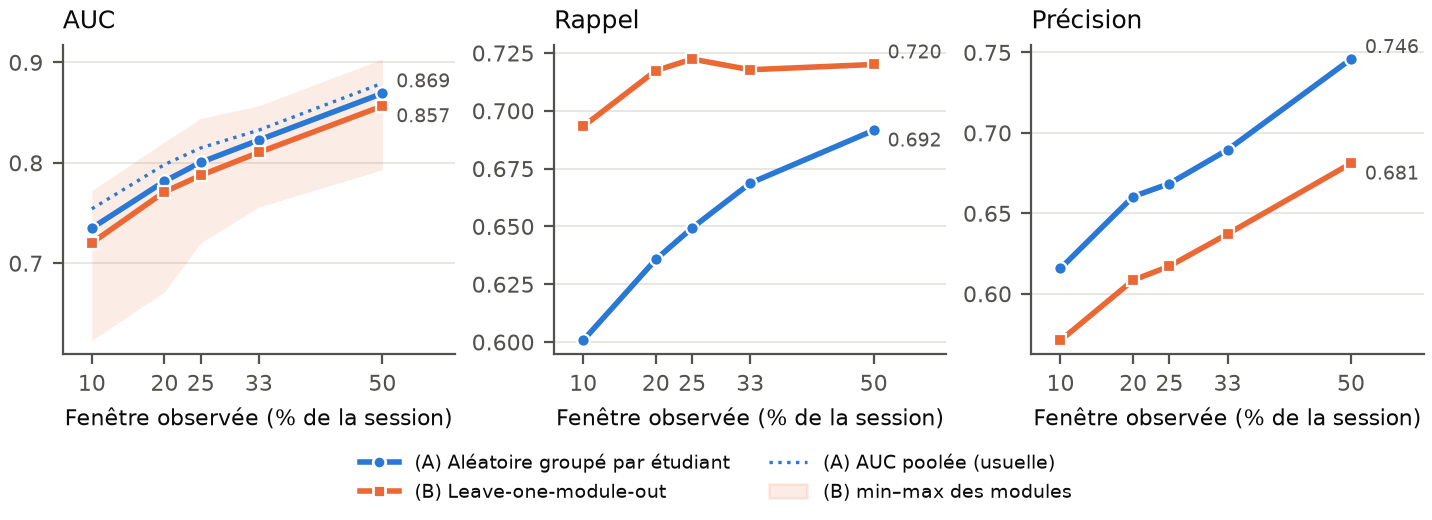
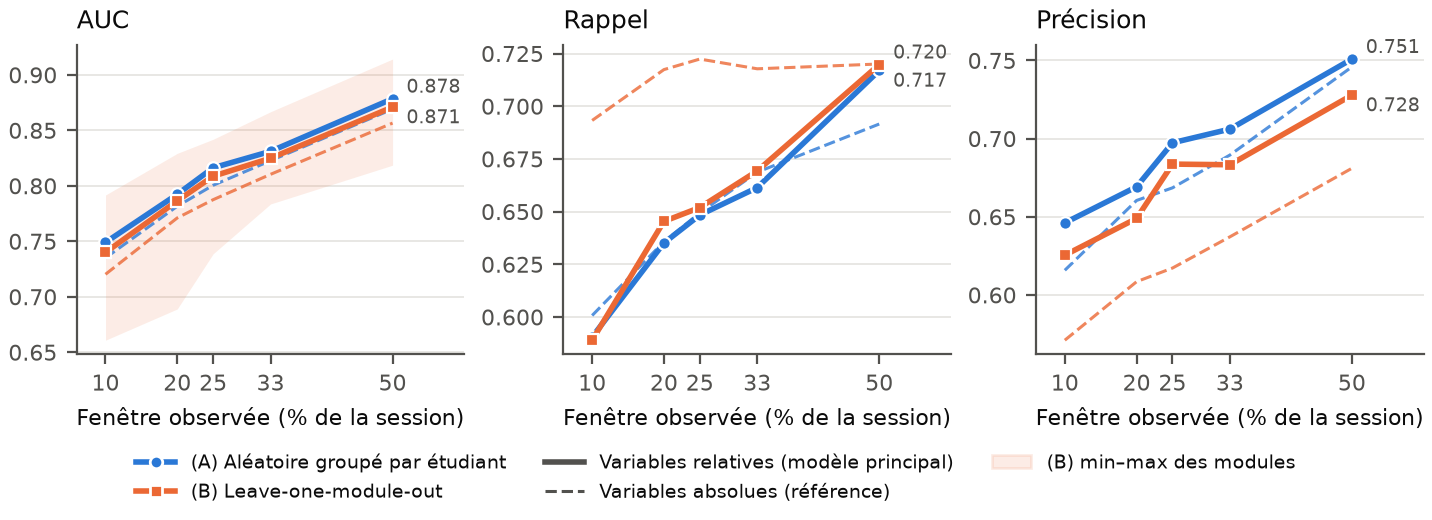
D7 : variables relatives = modèle principal ; figure T2 révisée

diff --git a/src/fig_early_curve.py b/src/fig_early_curve.py
@@ -3,13 +3,13 @@
 """
 Figure T2 — Performance en fonction de la fenêtre d'observation (population active).
 
+Trait plein : modèle principal, variables relatives (rang dans la présentation).
+Tirets      : référence, variables absolues (usage courant dans la littérature).
 Les deux protocoles sont agrégés de la MÊME façon : moyenne des métriques
-calculées à l'intérieur de chaque module (en (A), sur les prédictions
-hors-pli). L'AUC « poolée » de (A), habituellement rapportée, est tracée en
-pointillés : elle mélange les modules et gonfle l'écart (A − B).
-Bande : étendue min–max des modules en LOMO.
+calculées à l'intérieur de chaque module (en (A), sur les prédictions hors-pli).
+Bande : étendue min–max des modules en LOMO (variables relatives).
 
-Lit results/early_curve*.csv ; écrit figures/early_curve.pdf et .png.
+Lit results/early_curve_by_module[_relatives].csv ; écrit figures/early_curve.pdf et .png.
 Usage : python src/fig_early_curve.py
 """
 from pathlib import Path
@@ -27,6 +27,7 @@ MARQUEUR = {"aleatoire": "o", "lomo": "s"}
 LIBELLE = {"aleatoire": "(A) Aléatoire groupé par étudiant",
            "lomo": "(B) Leave-one-module-out"}
 TEXTE, TEXTE2, GRILLE = "#0b0b0b", "#52514e", "#e4e3df"
+METRIQUES = ["AUC", "Rappel", "Précision"]
 
 plt.rcParams.update({
     "font.size": 8, "axes.titlesize": 9, "axes.labelsize": 8,
@@ -36,35 +37,39 @@ plt.rcParams.update({
 })
 
 
+def moyennes(suffixe):
+    mod = pd.read_csv(RES / f"early_curve_by_module{suffixe}.csv")
+    mod = mod[mod.population == POP]
+    return mod, mod.groupby(["protocole", "cutoff"])[METRIQUES].mean()
+
+
 def etiquettes_fin(ax, valeurs):
     """Valeur en bout de courbe ; écarte verticalement les étiquettes proches."""
     ordre = sorted(valeurs, key=lambda v: v[1])
-    for (x, y, proto), dy in zip(ordre, [-4, 4]):
+    for (x, y), dy in zip(ordre, [-4, 4]):
         ax.annotate(f"{y:.3f}", (x, y), xytext=(5, dy), textcoords="offset points",
                     va="center", fontsize=7, color=TEXTE2)
 
 
 def main():
-    agr = pd.read_csv(RES / "early_curve.csv")
-    mod = pd.read_csv(RES / "early_curve_by_module.csv")
-    mod = mod[mod.population == POP]
-    moy = mod.groupby(["protocole", "cutoff"])[["AUC", "Rappel", "Précision"]].mean()
-    bande = mod[mod.protocole == "lomo"].groupby("cutoff")["AUC"].agg(["min", "max"])
-    poolee = agr[(agr.population == POP) & (agr.protocole == "aleatoire")].set_index("cutoff")["AUC"]
-    cutoffs = sorted(mod.cutoff.unique())
+    mod_rel, rel = moyennes("_relatives")
+    _, abso = moyennes("")
+    bande = mod_rel[mod_rel.protocole == "lomo"].groupby("cutoff")["AUC"].agg(["min", "max"])
+    cutoffs = sorted(mod_rel.cutoff.unique())
 
     fig, axes = plt.subplots(1, 3, figsize=(7.16, 2.6), constrained_layout=True)
-    for ax, met in zip(axes, ["AUC", "Rappel", "Précision"]):
+    for ax, met in zip(axes, METRIQUES):
         if met == "AUC":
             ax.fill_between(bande.index * 100, bande["min"], bande["max"],
                             color=COULEUR["lomo"], alpha=0.12, linewidth=0)
-            ax.plot(poolee.index * 100, poolee.values, ":", lw=1.2, color=COULEUR["aleatoire"])
         fins = []
         for proto in ["aleatoire", "lomo"]:
-            d = moy.loc[proto, met]
+            d = abso.loc[proto, met]
+            ax.plot(d.index * 100, d.values, "--", lw=1.1, color=COULEUR[proto], alpha=0.8)
+            d = rel.loc[proto, met]
             ax.plot(d.index * 100, d.values, "-", lw=2, color=COULEUR[proto],
                     marker=MARQUEUR[proto], ms=4.5, mec="white", mew=0.8)
-            fins.append((d.index[-1] * 100, d.values[-1], proto))
+            fins.append((d.index[-1] * 100, d.values[-1]))
         etiquettes_fin(ax, fins)
         ax.set_title(met, loc="left", color=TEXTE)
         ax.set_xlabel("Fenêtre observée (% de la session)")
@@ -75,11 +80,11 @@ def main():
 
     poignees = [Line2D([], [], color=COULEUR[p], marker=MARQUEUR[p], lw=2, ms=4.5,
                        mec="white", label=LIBELLE[p]) for p in ["aleatoire", "lomo"]]
-    poignees += [Line2D([], [], color=COULEUR["aleatoire"], lw=1.2, ls=":",
-                        label="(A) AUC poolée (usuelle)"),
+    poignees += [Line2D([], [], color=TEXTE2, lw=2, label="Variables relatives (modèle principal)"),
+                 Line2D([], [], color=TEXTE2, lw=1.1, ls="--", label="Variables absolues (référence)"),
                  plt.Rectangle((0, 0), 1, 1, color=COULEUR["lomo"], alpha=0.12,
                                label="(B) min–max des modules")]
-    fig.legend(handles=poignees, loc="outside lower center", ncol=2, frameon=False, fontsize=7)
+    fig.legend(handles=poignees, loc="outside lower center", ncol=3, frameon=False, fontsize=7)
 
     FIG.mkdir(exist_ok=True)
     for ext in ["pdf", "png"]:

diff --git a/DECISIONS.md b/DECISIONS.md
@@ -54,3 +54,11 @@ non indépendantes : même modèle LOMO par module), q-valeurs de
 Benjamini-Hochberg par niveau. La dissimilarité estimée par classifieur
 (contexte vs reste) vaut 0,94–1,00 pour tous les modules : non informative,
 écartée de l'interprétation.
+
+## D7 — Variables relatives = modèle principal (validé le 20/10/2026)
+
+Pour la suite (T2 en figure, T4–T6), le modèle principal utilise les variables
+relatives ; le modèle à variables absolues (celui de la littérature) est gardé
+comme référence. Il est meilleur sur tous les axes en LOMO (AUC, précision, F1,
+dérive) et transforme le constat (« ce qui ne se transfère pas ») en remède
+utilisable sans étiquette sur une nouvelle formation UN-CHK.
